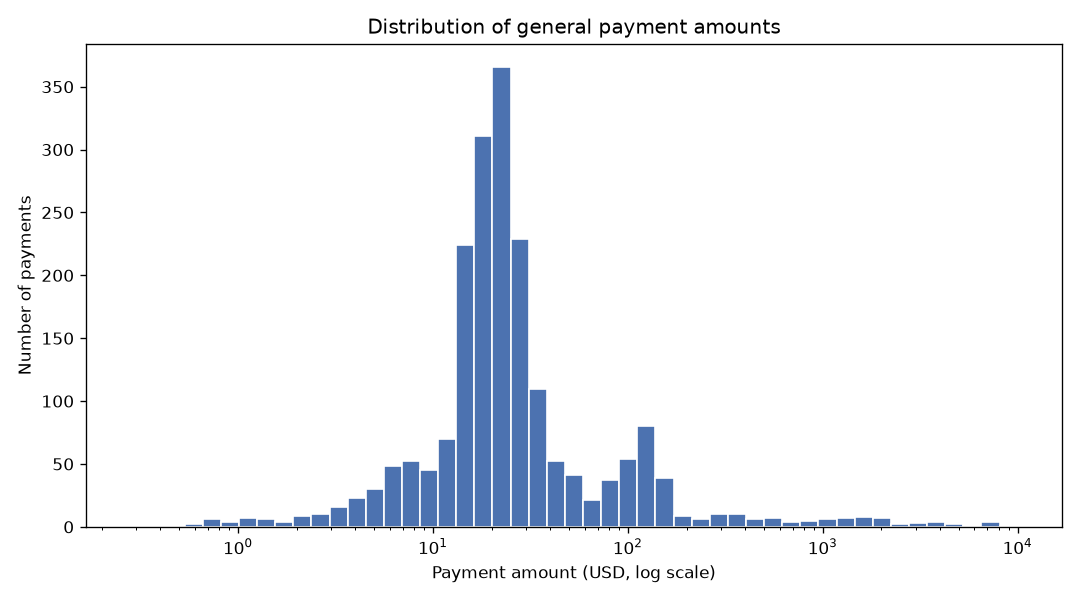
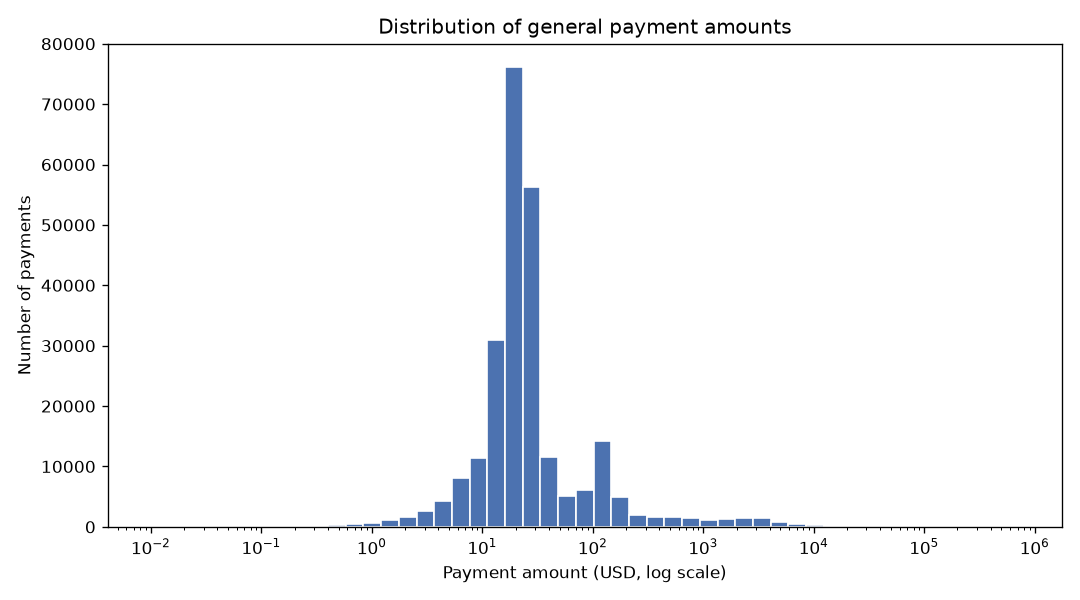
added test for the pipeline etl, dq and ran a full job for new york and texas to test the pipeline

diff --git a/tests/test_pipeline.py b/tests/test_pipeline.py
@@ -1,0 +1,205 @@
+
+from __future__ import annotations
+
+import io
+import json
+import pytest
+
+from src import analysis, config, data_quality, extract, load, transform
+
+# source column names
+PHYSICIAN_ROW = {
+    "record_id": "1157125359",
+    "change_type": "NEW",
+    "covered_recipient_type": "Covered Recipient Physician",
+    "covered_recipient_profile_id": "429303",
+    "covered_recipient_npi": "1285959858",
+    "covered_recipient_first_name": "Robert",
+    "covered_recipient_last_name": "Durick",
+    "recipient_city": "Youngstown",
+    "recipient_state": "OH",
+    "recipient_zip_code": "44512",
+    "recipient_country": "United States",
+    "covered_recipient_specialty_1": "Allopathic & Osteopathic Physicians|Internal Medicine",
+    "applicable_manufacturer_or_applicable_gpo_making_payment_id": "100000191758",
+    "applicable_manufacturer_or_applicable_gpo_making_payment_name": "Shockwave Medical, Inc",
+    "applicable_manufacturer_or_applicable_gpo_making_payment_state": "CA",
+    "applicable_manufacturer_or_applicable_gpo_making_payment_country": "United States",
+    "total_amount_of_payment_usdollars": "119.00",
+    "date_of_payment": "05/01/2025",
+    "payment_publication_date": "06/30/2026",
+    "number_of_payments_included_in_total_amount": "1",
+    "nature_of_payment_or_transfer_of_value": "Food and Beverage",
+    "form_of_payment_or_transfer_of_value": "In-kind items and services",
+    "program_year": "2025",
+    "name_of_drug_or_biological_or_device_or_medical_supply_1": "Shockwave C2 Catheter",
+    "product_category_or_therapeutic_area_1": "Cardiology",
+    "covered_or_noncovered_indicator_1": "Covered",
+    "indicate_drug_or_biological_or_device_or_medical_supply_1": "Device",
+}
+
+# A teaching-hospital
+HOSPITAL_ROW = {
+    "record_id": "2000000001",
+    "covered_recipient_type": "Covered Recipient Teaching Hospital",
+    "teaching_hospital_id": "15820",
+    "teaching_hospital_ccn": "050025",
+    "teaching_hospital_name": "Langley Porter Psychiatric Hospital",
+    "recipient_state": "CA",
+    "applicable_manufacturer_or_applicable_gpo_making_payment_id": "100000000123",
+    "applicable_manufacturer_or_applicable_gpo_making_payment_name": "Acme Pharma",
+    "total_amount_of_payment_usdollars": "5000",
+    "date_of_payment": "11/15/2025",
+    "program_year": "2025",
+}
+
+
+
+def test_to_staging_row_parses_types_and_dates():
+    row = transform.to_staging_row(PHYSICIAN_ROW)
+    assert row is not None
+    assert row["total_amount_of_payment_usdollars"] == 119.0 
+    assert row["number_of_payments"] == 1 
+    assert row["program_year"] == 2025
+    assert row["date_of_payment"] == "2025-05-01"
+    assert row["payment_publication_date"] == "2026-06-30"
+
+
+def test_to_staging_row_renames_columns():
+    row = transform.to_staging_row(PHYSICIAN_ROW)
+    assert row["manufacturer_id"] == "100000191758" 
+    assert row["product_name_1"] == "Shockwave C2 Catheter"
+    assert row["product_type_1"] == "Device"
+
+
+def test_clean_row_stores_no_raw_payload():
+    row = transform.to_staging_row(PHYSICIAN_ROW)
+    assert row["dq_flags"] is None
+    assert row["raw_payload"] is None
+
+
+def test_flagged_row_keeps_raw_payload():
+    flagged = dict(PHYSICIAN_ROW)
+    flagged["applicable_manufacturer_or_applicable_gpo_making_payment_id"] = ""
+    row = transform.to_staging_row(flagged)
+    assert "missing_manufacturer_id" in row["dq_flags"]
+    assert json.loads(row["raw_payload"])["record_id"] == "1157125359"
+
+
+def test_to_staging_row_drops_rows_without_id_or_amount():
+    assert transform.to_staging_row({"record_id": "", "total_amount_of_payment_usdollars": "5"}) is None
+    assert transform.to_staging_row({"record_id": "1", "total_amount_of_payment_usdollars": ""}) is None
+
+
[email redacted]
+def db(tmp_path):
+    """A fresh database built from the real schema, with the fixtures staged+built."""
+    conn = load.create_database(tmp_path / "test.db", config.SCHEMA_PATH)
+    load.load_staging(conn, [PHYSICIAN_ROW, HOSPITAL_ROW])
+    load.build_final_tables(conn)
+    yield conn
+    conn.close()
+
+
+def _count(conn, table):
+    return conn.execute(f"SELECT COUNT(*) FROM {table}").fetchone()[0]
+
+
+def test_build_populates_final_tables(db):
+    assert _count(db, "stg_general_payments") == 2
+    assert _count(db, "payment") == 2
+    assert _count(db, "manufacturer") == 2
+    assert _count(db, "payment_product") == 1
+
+
+def test_recipient_keys(db):
+    ids = {r[0] for r in db.execute("SELECT recipient_id FROM recipient")}
+    assert ids == {"CR-429303", "TH-15820"}
+
+
+def test_payment_count_matches_staging(db):
+    assert _count(db, "payment") == _count(db, "stg_general_payments")
+
+
+def test_no_duplicate_record_ids(db):
+    dupes = db.execute(
+        "SELECT record_id FROM payment GROUP BY record_id HAVING COUNT(*) > 1"
+    ).fetchall()
+    assert dupes == []
+
+
+def test_pipeline_is_idempotent(db):
+    load.load_staging(db, [PHYSICIAN_ROW, HOSPITAL_ROW])
+    load.build_final_tables(db) 
+    assert _count(db, "payment") == 2
+    assert _count(db, "payment_product") == 1
+
+
+def test_reset_staging_gives_full_refresh(db):
+    load.reset_staging(db)
+    assert _count(db, "stg_general_payments") == 0
+    load.load_staging(db, [HOSPITAL_ROW])
+    load.build_final_tables(db)
+    assert _count(db, "stg_general_payments") == 1
+    assert _count(db, "payment") == 1
+
+
+def test_quality_checks_pass_on_clean_data(db):
+    data_quality.run_staging_quality_checks(db, ["OH", "CA"])
+    data_quality.run_final_quality_checks(db)  # should not raise
+
+
+def test_staging_check_catches_negative_amount(tmp_path):
+    conn = load.create_database(tmp_path / "bad.db", config.SCHEMA_PATH)
+    bad_row = dict(PHYSICIAN_ROW, record_id="9", total_amount_of_payment_usdollars="-5.00")
+    load.load_staging(conn, [bad_row])
+    with pytest.raises(ValueError, match="amount"):
+        data_quality.run_staging_quality_checks(conn, ["OH"])
+    conn.close()
+
+
+class _FakeRaw(io.BytesIO):
+    decode_content = False
+
+
+class _FakeResponse:
+    def __init__(self, data: bytes):
+        self.raw = _FakeRaw(data)
+
+    def __enter__(self):
+        return self
+
+    def __exit__(self, *exc):
+        return False
+
+    def raise_for_status(self):
+        pass
+
+
+def test_download_records_filters_by_state(monkeypatch):
+    csv_text = (
+        "Record_ID,Recipient_State,Total_Amount_of_Payment_USDollars\n"
+        "1,TX,10\n2,NY,20\n3,TX,30\n4,CA,40\n"
+    )
+    monkeypatch.setattr(extract, "resolve_csv_url", lambda session: "http://fake/csv")
+    monkeypatch.setattr(extract, "_get_with_retry", lambda session, url, **kw: _FakeResponse(csv_text.encode()))
+
+    rows = list(extract.download_records(["TX"], max_records=10))
+    assert {r["record_id"] for r in rows} == {"1", "3"} 
+    assert all(r["recipient_state"] == "TX" for r in rows) 
+
+
+def test_analysis_writes_all_outputs(tmp_path):
+    db_path = tmp_path / "a.db"
+    conn = load.create_database(db_path, config.SCHEMA_PATH)
+    load.load_staging(conn, [PHYSICIAN_ROW, HOSPITAL_ROW])
+    load.build_final_tables(conn)
+    conn.close()
+
+    output_dir = tmp_path / "outputs"
+    analysis.run_analysis(db_path, output_dir)
+    for name in (
+        "top_manufacturers.csv", "payment_by_nature.csv", "payment_concentration.csv",
+        "top_products.csv", "top_specialties.csv", "top_specialties.png", "amount_distribution.png",
+    ):
+        assert (output_dir / name).exists(), f"missing {name}"